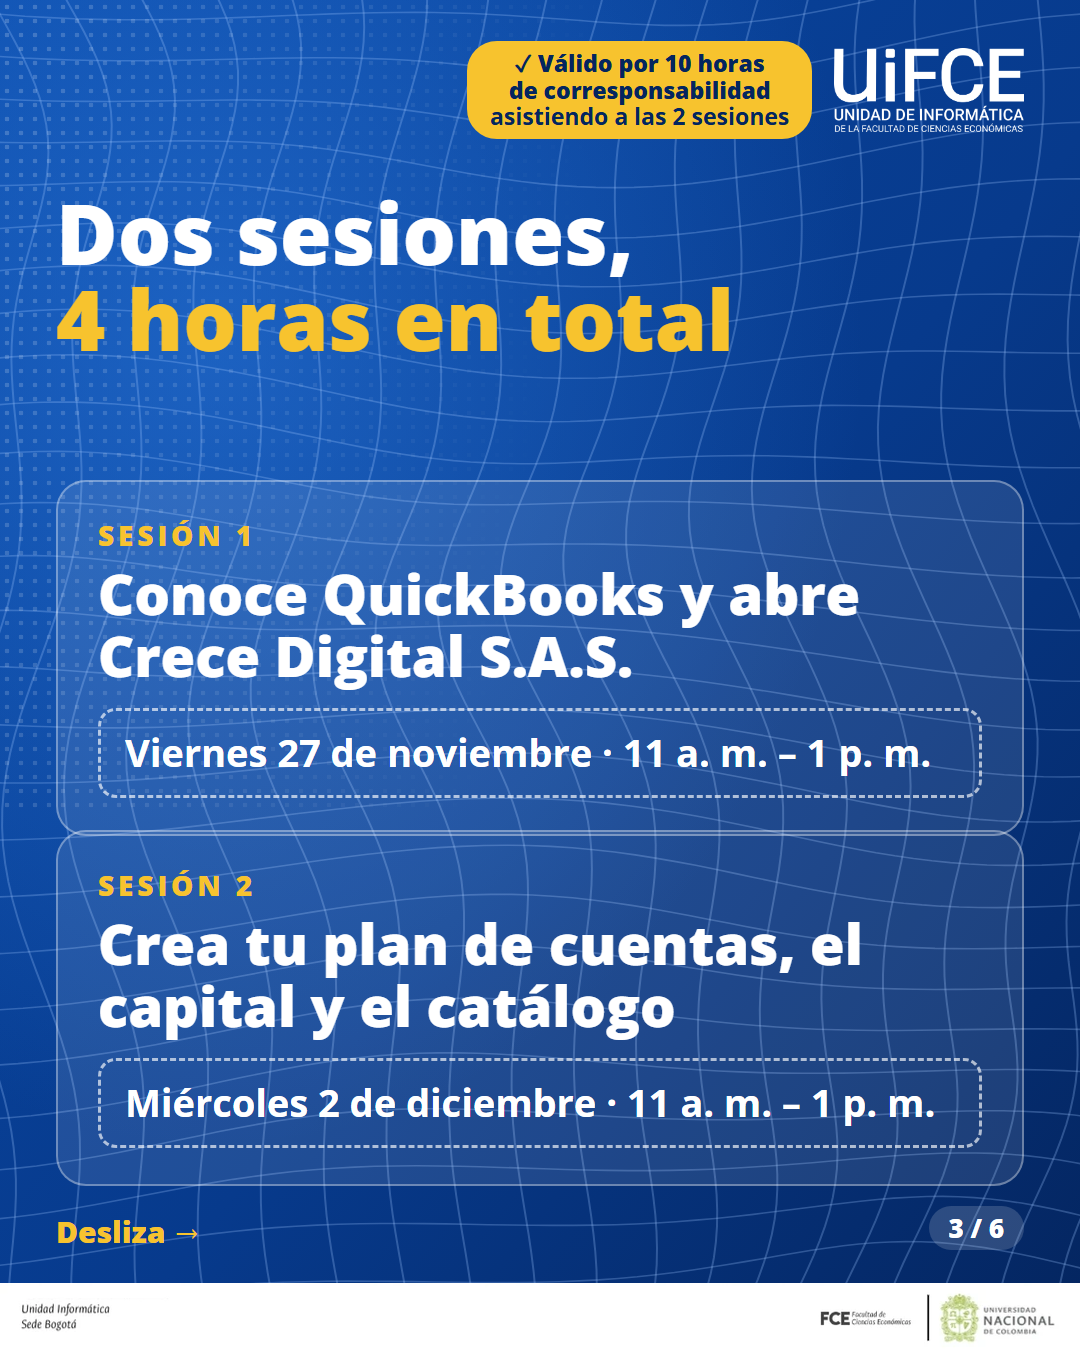
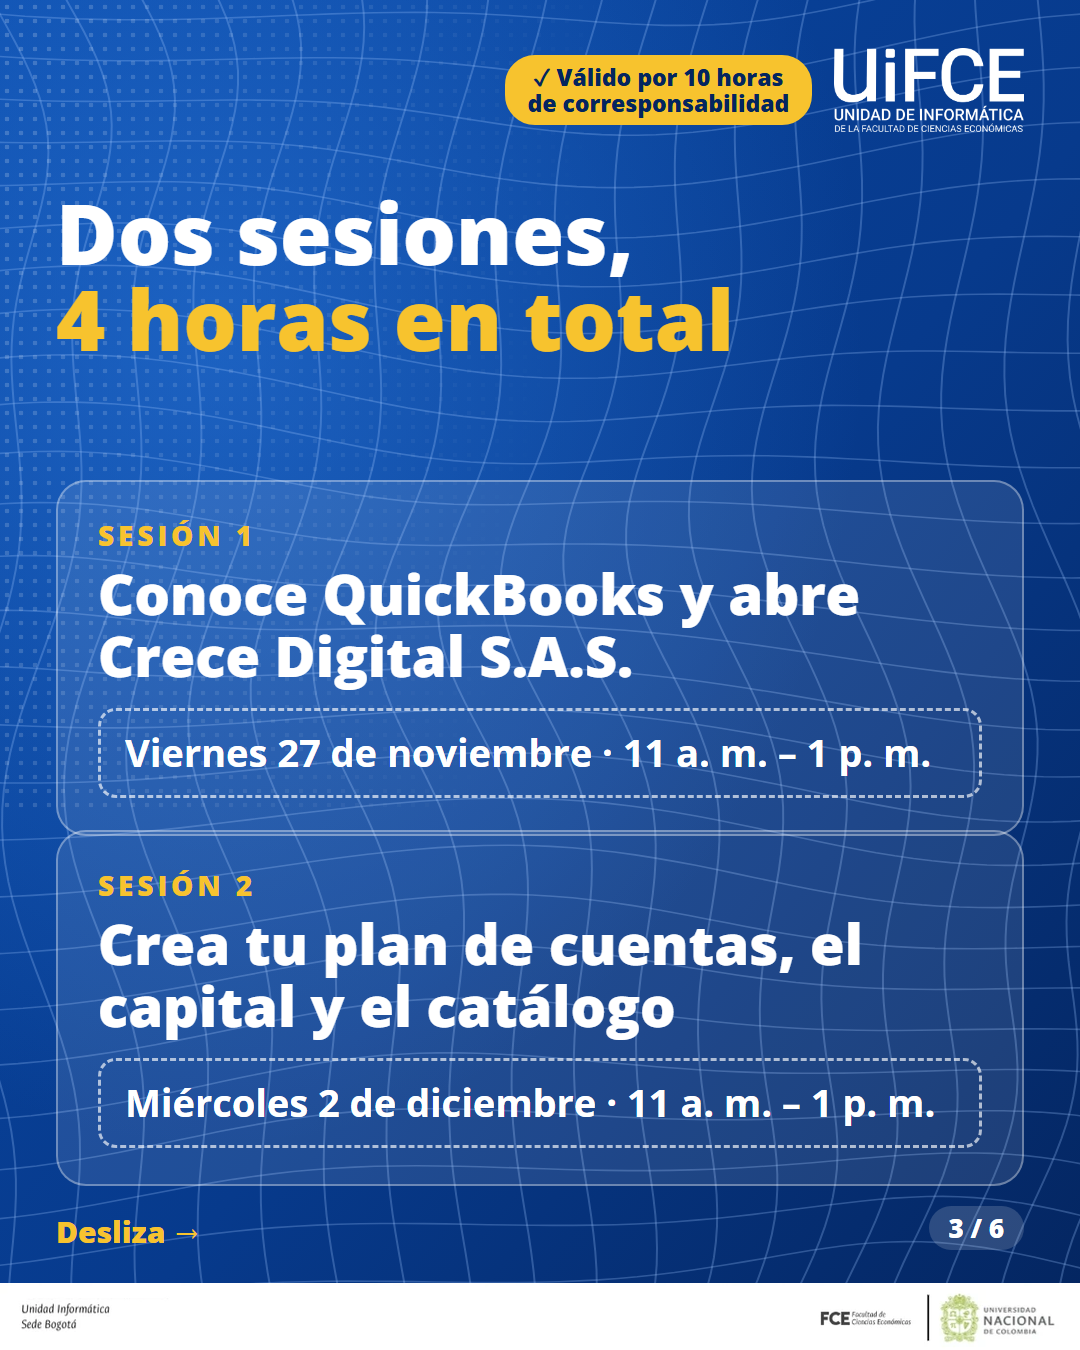
P4: etiqueta de las piezas de Instagram sin 'asistiendo a las 2 sesiones'

Changed region(s): [[0.4278, 0.0311, 0.7639, 0.1244]]

diff --git a/propuesta-4/extras/ig-04.html b/propuesta-4/extras/ig-04.html
@@ -17,7 +17,7 @@ body{position:relative;overflow:hidden;background:#073a8c;font-family:var(--font
 .qrb small{display:block;font-weight:700;color:var(--blue)}
 .qrb b{display:block;font-weight:800;line-height:1.05}
 .qrb i{display:inline-block;font-style:normal;background:var(--navy);color:#fff;border-radius:999px;font-weight:700}
-.n{position:absolute;z-index:3;right:56px;bottom:100px;font-weight:800;font-size:26px;background:rgba(255,255,255,.16);border-radius:999px;padding:6px 20px}.sw{position:absolute;z-index:3;left:56px;bottom:100px;font-weight:800;font-size:30px;color:var(--gold)}</style></head><body><img class="bg" src="../assets/bg-grid.svg" alt=""><div class="dots"></div><img class="z" src="../assets/logo-uifce-static-blanco.png" alt="UIFCE" style="right:56px;top:48px;height:84px"><div class="z" style="right:268px;top:48px;height:84px;display:flex;align-items:center"><span class="chip on" style="margin:0;font-size:23px;line-height:1.15;text-align:center;border-radius:30px">✓ Válido por 10 horas<br>de corresponsabilidad<br><b style="color:#04255f;font-weight:700">asistiendo a las 2 sesiones</b></span></div><div class="z" style="left:56px;top:200px;width:968px"><div style="background:var(--gold);color:var(--navy);box-shadow:0 8px 0 rgba(0,10,60,.28);border-radius:30px;padding:40px 44px">
+.n{position:absolute;z-index:3;right:56px;bottom:100px;font-weight:800;font-size:26px;background:rgba(255,255,255,.16);border-radius:999px;padding:6px 20px}.sw{position:absolute;z-index:3;left:56px;bottom:100px;font-weight:800;font-size:30px;color:var(--gold)}</style></head><body><img class="bg" src="../assets/bg-grid.svg" alt=""><div class="dots"></div><img class="z" src="../assets/logo-uifce-static-blanco.png" alt="UIFCE" style="right:56px;top:48px;height:84px"><div class="z" style="right:268px;top:48px;height:84px;display:flex;align-items:center"><span class="chip on" style="margin:0;font-size:23px;line-height:1.15;text-align:center;border-radius:30px">✓ Válido por 10 horas<br>de corresponsabilidad</span></div><div class="z" style="left:56px;top:200px;width:968px"><div style="background:var(--gold);color:var(--navy);box-shadow:0 8px 0 rgba(0,10,60,.28);border-radius:30px;padding:40px 44px">
 <div style="display:flex;gap:26px;align-items:center"><svg viewBox="0 0 50 50" width="96" height="96" fill="none" stroke="#04255f" stroke-width="3.6" stroke-linecap="round" stroke-linejoin="round" style="flex:none"><circle cx="25" cy="25" r="20"/><path d="M15 26l7 7 13-15"/></svg><b style="font-weight:800;font-size:68px;line-height:1.02">10 horas de corresponsabilidad</b></div></div>
 <div style="margin-top:52px;display:flex;align-items:center;gap:24px"><svg width="84" height="84" viewBox="0 0 50 50" style="flex:none"><rect width="50" height="50" rx="10" fill="#0A66C2"/><circle cx="12.6" cy="14.6" r="4" fill="#fff"/><rect x="9" y="20.5" width="7.2" height="20" fill="#fff"/><path d="M20.5 20.5h6.9v2.9c1.2-2 3.4-3.4 6.6-3.4 6 0 7.5 3.9 7.5 9.2v11.3h-7.2V30.8c0-2.2-.4-3.9-2.6-3.9-2.4 0-3.2 1.7-3.2 4.2v9.4h-7z" fill="#fff"/></svg><div><b style="font-size:46px;font-weight:800;line-height:1.1;display:block">Certificado de participación</b><span style="font-size:34px">Compártelo en tu perfil de LinkedIn</span></div></div>
 <div class="card" style="margin-top:50px;padding:36px 40px"><div class="k" style="font-size:28px">Para recibirlos necesitas</div>

diff --git a/propuesta-4/extras/ig-01.html b/propuesta-4/extras/ig-01.html
@@ -17,7 +17,7 @@ body{position:relative;overflow:hidden;background:#073a8c;font-family:var(--font
 .qrb small{display:block;font-weight:700;color:var(--blue)}
 .qrb b{display:block;font-weight:800;line-height:1.05}
 .qrb i{display:inline-block;font-style:normal;background:var(--navy);color:#fff;border-radius:999px;font-weight:700}
-.n{position:absolute;z-index:3;right:56px;bottom:100px;font-weight:800;font-size:26px;background:rgba(255,255,255,.16);border-radius:999px;padding:6px 20px}.sw{position:absolute;z-index:3;left:56px;bottom:100px;font-weight:800;font-size:30px;color:var(--gold)}.sw{left:360px}</style></head><body><img class="bg" src="../assets/bg-grid.svg" alt=""><div class="dots"></div><img class="z" src="../assets/logo-uifce-static-blanco.png" alt="UIFCE" style="right:56px;top:48px;height:84px"><div class="z" style="right:268px;top:48px;height:84px;display:flex;align-items:center"><span class="chip on" style="margin:0;font-size:23px;line-height:1.15;text-align:center;border-radius:30px">✓ Válido por 10 horas<br>de corresponsabilidad<br><b style="color:#04255f;font-weight:700">asistiendo a las 2 sesiones</b></span></div><div class="z" style="left:56px;top:56px;font-size:25px"><span class="chip on">Gratuito</span><span class="chip">100 % virtual</span></div>
+.n{position:absolute;z-index:3;right:56px;bottom:100px;font-weight:800;font-size:26px;background:rgba(255,255,255,.16);border-radius:999px;padding:6px 20px}.sw{position:absolute;z-index:3;left:56px;bottom:100px;font-weight:800;font-size:30px;color:var(--gold)}.sw{left:360px}</style></head><body><img class="bg" src="../assets/bg-grid.svg" alt=""><div class="dots"></div><img class="z" src="../assets/logo-uifce-static-blanco.png" alt="UIFCE" style="right:56px;top:48px;height:84px"><div class="z" style="right:268px;top:48px;height:84px;display:flex;align-items:center"><span class="chip on" style="margin:0;font-size:23px;line-height:1.15;text-align:center;border-radius:30px">✓ Válido por 10 horas<br>de corresponsabilidad</span></div><div class="z" style="left:56px;top:56px;font-size:25px"><span class="chip on">Gratuito</span><span class="chip">100 % virtual</span></div>
 <div class="z" style="left:56px;top:250px;width:968px"><p style="font-weight:600;font-size:54px;line-height:1.1">Aprende contabilidad con</p>
 <h1 style="font-weight:800;font-size:150px;line-height:.95;letter-spacing:-.03em;text-transform:uppercase;margin:8px 0 0 -6px">QuickBooks</h1>
 <p style="margin-top:34px;font-weight:600;font-size:52px;line-height:1.1">Formación práctica<br><em style="font-weight:700;color:var(--gold)">en 2 sesiones virtuales</em></p></div><img class="z" src="../assets/uifcito-cierre.png" alt="Uifcito" style="left:-20px;top:760px;height:520px;filter:drop-shadow(0 22px 28px rgba(0,10,60,.45))"><div class="z" style="right:56px;top:830px;width:470px;font-weight:800;font-size:44px;line-height:1.12;text-align:right">Abre la contabilidad de una empresa en la nube</div><div class="z white" style="right:56px;top:1030px;border-radius:22px;padding:12px 28px"><img src="../assets/logo-quickbooks.png" style="height:74px;display:block" alt="QuickBooks"></div><img class="z" src="../assets/footer.png" alt="" style="left:0;bottom:0;width:100%;height:auto"><div class="sw">Desliza →</div><div class="n">1 / 6</div></body></html>

diff --git a/propuesta-4/extras/ig-02.html b/propuesta-4/extras/ig-02.html
@@ -17,7 +17,7 @@ body{position:relative;overflow:hidden;background:#073a8c;font-family:var(--font
 .qrb small{display:block;font-weight:700;color:var(--blue)}
 .qrb b{display:block;font-weight:800;line-height:1.05}
 .qrb i{display:inline-block;font-style:normal;background:var(--navy);color:#fff;border-radius:999px;font-weight:700}
-.n{position:absolute;z-index:3;right:56px;bottom:100px;font-weight:800;font-size:26px;background:rgba(255,255,255,.16);border-radius:999px;padding:6px 20px}.sw{position:absolute;z-index:3;left:56px;bottom:100px;font-weight:800;font-size:30px;color:var(--gold)}</style></head><body><img class="bg" src="../assets/bg-grid.svg" alt=""><div class="dots"></div><img class="z" src="../assets/logo-uifce-static-blanco.png" alt="UIFCE" style="right:56px;top:48px;height:84px"><div class="z" style="right:268px;top:48px;height:84px;display:flex;align-items:center"><span class="chip on" style="margin:0;font-size:23px;line-height:1.15;text-align:center;border-radius:30px">✓ Válido por 10 horas<br>de corresponsabilidad<br><b style="color:#04255f;font-weight:700">asistiendo a las 2 sesiones</b></span></div><div class="z" style="left:56px;top:210px;width:968px"><div class="k" style="font-size:28px">Antes de empezar</div>
+.n{position:absolute;z-index:3;right:56px;bottom:100px;font-weight:800;font-size:26px;background:rgba(255,255,255,.16);border-radius:999px;padding:6px 20px}.sw{position:absolute;z-index:3;left:56px;bottom:100px;font-weight:800;font-size:30px;color:var(--gold)}</style></head><body><img class="bg" src="../assets/bg-grid.svg" alt=""><div class="dots"></div><img class="z" src="../assets/logo-uifce-static-blanco.png" alt="UIFCE" style="right:56px;top:48px;height:84px"><div class="z" style="right:268px;top:48px;height:84px;display:flex;align-items:center"><span class="chip on" style="margin:0;font-size:23px;line-height:1.15;text-align:center;border-radius:30px">✓ Válido por 10 horas<br>de corresponsabilidad</span></div><div class="z" style="left:56px;top:210px;width:968px"><div class="k" style="font-size:28px">Antes de empezar</div>
 <h2 style="font-weight:800;font-size:92px;line-height:1.02;margin-top:14px">¿Qué es<br>QuickBooks?</h2>
 <p style="margin-top:44px;font-size:42px;line-height:1.4;color:#e6efff">Una plataforma de <b style="color:#fff">contabilidad en la nube</b> que digitaliza el ciclo contable, <b style="color:#fff">del registro de cada operación a la organización de las cuentas.</b></p>
 <p style="margin-top:34px;font-size:42px;line-height:1.4;color:#e6efff">Muchas pequeñas y medianas empresas la usan.</p></div><div class="z white" style="left:56px;top:1000px;border-radius:22px;padding:12px 28px"><img src="../assets/logo-quickbooks.png" style="height:84px;display:block" alt="QuickBooks"></div><img class="z" src="../assets/uifcito-cierre.png" alt="Uifcito" style="right:50px;top:800px;height:420px;filter:drop-shadow(0 22px 28px rgba(0,10,60,.45))"><img class="z" src="../assets/footer.png" alt="" style="left:0;bottom:0;width:100%;height:auto"><div class="sw">Desliza →</div><div class="n">2 / 6</div></body></html>

diff --git a/propuesta-4/extras/ig-06.html b/propuesta-4/extras/ig-06.html
@@ -17,6 +17,6 @@ body{position:relative;overflow:hidden;background:#073a8c;font-family:var(--font
 .qrb small{display:block;font-weight:700;color:var(--blue)}
 .qrb b{display:block;font-weight:800;line-height:1.05}
 .qrb i{display:inline-block;font-style:normal;background:var(--navy);color:#fff;border-radius:999px;font-weight:700}
-.n{position:absolute;z-index:3;right:56px;bottom:100px;font-weight:800;font-size:26px;background:rgba(255,255,255,.16);border-radius:999px;padding:6px 20px}.sw{position:absolute;z-index:3;left:56px;bottom:100px;font-weight:800;font-size:30px;color:var(--gold)}</style></head><body><img class="bg" src="../assets/bg-grid.svg" alt=""><div class="dots"></div><img class="z" src="../assets/logo-uifce-static-blanco.png" alt="UIFCE" style="right:56px;top:48px;height:84px"><div class="z" style="right:268px;top:48px;height:84px;display:flex;align-items:center"><span class="chip on" style="margin:0;font-size:23px;line-height:1.15;text-align:center;border-radius:30px">✓ Válido por 10 horas<br>de corresponsabilidad<br><b style="color:#04255f;font-weight:700">asistiendo a las 2 sesiones</b></span></div><div class="z" style="left:56px;top:190px;width:968px"><h2 style="font-weight:800;font-size:96px;line-height:1.02">¡Inscríbete<br><span class="gold">gratis!</span></h2></div>
+.n{position:absolute;z-index:3;right:56px;bottom:100px;font-weight:800;font-size:26px;background:rgba(255,255,255,.16);border-radius:999px;padding:6px 20px}.sw{position:absolute;z-index:3;left:56px;bottom:100px;font-weight:800;font-size:30px;color:var(--gold)}</style></head><body><img class="bg" src="../assets/bg-grid.svg" alt=""><div class="dots"></div><img class="z" src="../assets/logo-uifce-static-blanco.png" alt="UIFCE" style="right:56px;top:48px;height:84px"><div class="z" style="right:268px;top:48px;height:84px;display:flex;align-items:center"><span class="chip on" style="margin:0;font-size:23px;line-height:1.15;text-align:center;border-radius:30px">✓ Válido por 10 horas<br>de corresponsabilidad</span></div><div class="z" style="left:56px;top:190px;width:968px"><h2 style="font-weight:800;font-size:96px;line-height:1.02">¡Inscríbete<br><span class="gold">gratis!</span></h2></div>
 <div class="z qrb" style="left:56px;top:480px;width:968px;border-radius:40px;padding:36px 44px;gap:44px"><img src="../assets/qr-uifce.svg" style="width:340px;height:340px" alt="QR">
 <span><small style="font-size:30px">Escanea el QR</small><b style="font-size:70px;margin-top:8px">Inscripciones aquí</b><i style="margin-top:20px;font-size:36px;padding:10px 28px">linktr.ee/UIFCE</i></span></div><div class="z" style="left:56px;top:940px;width:968px;font-size:36px;font-weight:600;line-height:1.4">Vie. 27 nov y mié. 2 dic · 11 a. m. – 1 p. m.<br><span style="color:var(--gold);font-weight:700">uniic_bog@unal.edu.co</span> · Tel. 316 5000, ext. 12301<br>LinkedIn: <span style="color:var(--gold);font-weight:700">linkedin.com/in/uifce</span></div><img class="z" src="../assets/footer.png" alt="" style="left:0;bottom:0;width:100%;height:auto"><div class="n">6 / 6</div></body></html>

diff --git a/propuesta-4/extras/ig-03.html b/propuesta-4/extras/ig-03.html
@@ -17,7 +17,7 @@ body{position:relative;overflow:hidden;background:#073a8c;font-family:var(--font
 .qrb small{display:block;font-weight:700;color:var(--blue)}
 .qrb b{display:block;font-weight:800;line-height:1.05}
 .qrb i{display:inline-block;font-style:normal;background:var(--navy);color:#fff;border-radius:999px;font-weight:700}
-.n{position:absolute;z-index:3;right:56px;bottom:100px;font-weight:800;font-size:26px;background:rgba(255,255,255,.16);border-radius:999px;padding:6px 20px}.sw{position:absolute;z-index:3;left:56px;bottom:100px;font-weight:800;font-size:30px;color:var(--gold)}</style></head><body><img class="bg" src="../assets/bg-grid.svg" alt=""><div class="dots"></div><img class="z" src="../assets/logo-uifce-static-blanco.png" alt="UIFCE" style="right:56px;top:48px;height:84px"><div class="z" style="right:268px;top:48px;height:84px;display:flex;align-items:center"><span class="chip on" style="margin:0;font-size:23px;line-height:1.15;text-align:center;border-radius:30px">✓ Válido por 10 horas<br>de corresponsabilidad<br><b style="color:#04255f;font-weight:700">asistiendo a las 2 sesiones</b></span></div><div class="z" style="left:56px;top:190px"><h2 style="font-weight:800;font-size:84px;line-height:1.02">Dos sesiones,<br><span class="gold">4 horas en total</span></h2></div><div class="z card" style="left:56px;top:480px;width:968px;padding:36px 40px"><div class="k" style="font-size:28px">Sesión 1</div>
+.n{position:absolute;z-index:3;right:56px;bottom:100px;font-weight:800;font-size:26px;background:rgba(255,255,255,.16);border-radius:999px;padding:6px 20px}.sw{position:absolute;z-index:3;left:56px;bottom:100px;font-weight:800;font-size:30px;color:var(--gold)}</style></head><body><img class="bg" src="../assets/bg-grid.svg" alt=""><div class="dots"></div><img class="z" src="../assets/logo-uifce-static-blanco.png" alt="UIFCE" style="right:56px;top:48px;height:84px"><div class="z" style="right:268px;top:48px;height:84px;display:flex;align-items:center"><span class="chip on" style="margin:0;font-size:23px;line-height:1.15;text-align:center;border-radius:30px">✓ Válido por 10 horas<br>de corresponsabilidad</span></div><div class="z" style="left:56px;top:190px"><h2 style="font-weight:800;font-size:84px;line-height:1.02">Dos sesiones,<br><span class="gold">4 horas en total</span></h2></div><div class="z card" style="left:56px;top:480px;width:968px;padding:36px 40px"><div class="k" style="font-size:28px">Sesión 1</div>
 <h3 style="font-weight:800;font-size:56px;line-height:1.1;margin-top:10px">Conoce QuickBooks y abre Crece Digital S.A.S.</h3>
 <div style="margin-top:22px;border:3px dashed rgba(255,255,255,.65);border-radius:18px;padding:18px 24px;font-weight:700;font-size:38px">Viernes 27 de noviembre · 11 a. m. – 1 p. m.</div></div><div class="z card" style="left:56px;top:830px;width:968px;padding:36px 40px"><div class="k" style="font-size:28px">Sesión 2</div>
 <h3 style="font-weight:800;font-size:56px;line-height:1.1;margin-top:10px">Crea tu plan de cuentas, el capital y el catálogo</h3>

diff --git a/propuesta-4/extras/ig-05.html b/propuesta-4/extras/ig-05.html
@@ -17,6 +17,6 @@ body{position:relative;overflow:hidden;background:#073a8c;font-family:var(--font
 .qrb small{display:block;font-weight:700;color:var(--blue)}
 .qrb b{display:block;font-weight:800;line-height:1.05}
 .qrb i{display:inline-block;font-style:normal;background:var(--navy);color:#fff;border-radius:999px;font-weight:700}
-.n{position:absolute;z-index:3;right:56px;bottom:100px;font-weight:800;font-size:26px;background:rgba(255,255,255,.16);border-radius:999px;padding:6px 20px}.sw{position:absolute;z-index:3;left:56px;bottom:100px;font-weight:800;font-size:30px;color:var(--gold)}</style></head><body><img class="bg" src="../assets/bg-grid.svg" alt=""><div class="dots"></div><img class="z" src="../assets/logo-uifce-static-blanco.png" alt="UIFCE" style="right:56px;top:48px;height:84px"><div class="z" style="right:268px;top:48px;height:84px;display:flex;align-items:center"><span class="chip on" style="margin:0;font-size:23px;line-height:1.15;text-align:center;border-radius:30px">✓ Válido por 10 horas<br>de corresponsabilidad<br><b style="color:#04255f;font-weight:700">asistiendo a las 2 sesiones</b></span></div><div class="z" style="left:56px;top:230px;width:968px"><div class="k" style="font-size:30px">Tu monitora</div><h2 style="font-weight:800;font-size:76px;line-height:1.05;margin-top:10px">Angelica Cárdenas</h2></div>
+.n{position:absolute;z-index:3;right:56px;bottom:100px;font-weight:800;font-size:26px;background:rgba(255,255,255,.16);border-radius:999px;padding:6px 20px}.sw{position:absolute;z-index:3;left:56px;bottom:100px;font-weight:800;font-size:30px;color:var(--gold)}</style></head><body><img class="bg" src="../assets/bg-grid.svg" alt=""><div class="dots"></div><img class="z" src="../assets/logo-uifce-static-blanco.png" alt="UIFCE" style="right:56px;top:48px;height:84px"><div class="z" style="right:268px;top:48px;height:84px;display:flex;align-items:center"><span class="chip on" style="margin:0;font-size:23px;line-height:1.15;text-align:center;border-radius:30px">✓ Válido por 10 horas<br>de corresponsabilidad</span></div><div class="z" style="left:56px;top:230px;width:968px"><div class="k" style="font-size:30px">Tu monitora</div><h2 style="font-weight:800;font-size:76px;line-height:1.05;margin-top:10px">Angelica Cárdenas</h2></div>
 <div class="z" style="left:56px;top:430px;width:968px;border-radius:28px;overflow:hidden;box-shadow:0 10px 0 rgba(0,10,60,.3)"><img src="../assets/perfil-linkedin.png" style="display:block;width:100%" alt="Perfil de LinkedIn de Angelica Cárdenas"></div>
 <div class="z" style="left:56px;top:990px;width:968px;font-size:38px;font-weight:600;line-height:1.35">Estudiante de Economía y monitora UIFCE.<br><span style="color:var(--gold);font-weight:700">Conéctate en LinkedIn</span> y sigue a <b>linkedin.com/in/uifce</b></div><img class="z" src="../assets/footer.png" alt="" style="left:0;bottom:0;width:100%;height:auto"><div class="sw">Desliza →</div><div class="n">5 / 6</div></body></html>
